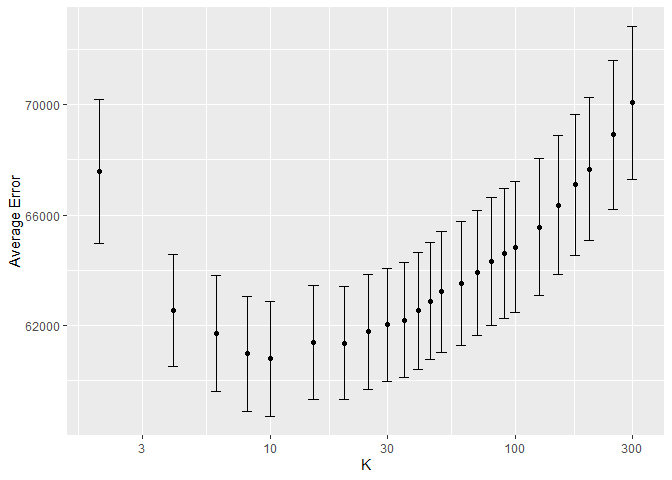
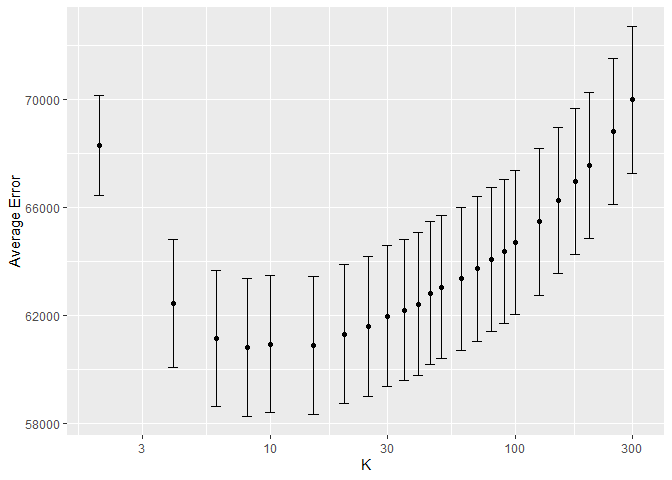
committing

diff --git a/DM_Homework_2.md b/DM_Homework_2.md
@@ -17,6 +17,8 @@ approaching soon they prefer to walk to class.
 
 ## Boardings and Temperature
 
+![](DM_Homework_2_files/figure-markdown_strict/data_wrangling-1.png)
+
 The data seem to be clustered at the right side of the graph, which is
 because the interquartile range for `temperature` is about 60 degrees to
 80 degrees with a median of 73 degrees. Average ridership itself does
@@ -26,8 +28,6 @@ be evenly distributed across temperatures.
 # Problem 2
 
 ## Linear Model
-
-    ## [1] 9590.392
 
 My linear model regresses price on all variables excluding `pctCollege`
 `fireplaces` `waterfront` and includes interactions on `landValue` and
@@ -62,11 +62,11 @@ the approximated lowest RMSE:
     ## 
     ## No pre-processing
     ## Resampling: Cross-Validated (10 fold) 
-    ## Summary of sample sizes: 1242, 1244, 1244, 1243, 1243, 1245, ... 
+    ## Summary of sample sizes: 1245, 1244, 1245, 1244, 1243, 1244, ... 
     ## Resampling results:
     ## 
     ##   RMSE      Rsquared   MAE     
-    ##   59391.93  0.6364438  41958.62
+    ##   58717.65  0.6365483  41515.14
     ## 
     ## Tuning parameter 'intercept' was held constant at a value of TRUE
 
@@ -108,15 +108,15 @@ credit history category.
 
     ##    yhat
     ## y      0    1
-    ##   0 8172   92
-    ##   1  481  255
+    ##   0 8162   92
+    ##   1  486  260
 
     ##    yhat
     ## y      0    1
-    ##   0 8166   98
-    ##   1  484  252
+    ##   0 8165   89
+    ##   1  488  258
 
-    ## [1] 0.001
+    ## [1] -0.0001111111
 
 The out of sample accuracy is almost 94% for the linear model specified,
 which is slightly higher than the baseline 2 model, where `is_summer`
@@ -126,7 +126,7 @@ and `is_holiday` are features I generated from `arrival_date`.
 
     ## Warning: glm.fit: fitted probabilities numerically 0 or 1 occurred
 
-    ## [1] 0.928
+    ## [1] 0.939
 
     ## Setting levels: control = 0, case = 1
 
@@ -153,129 +153,129 @@ and `is_holiday` are features I generated from `arrival_date`.
 <tbody>
 <tr class="odd">
 <td style="text-align: left;">Fold01</td>
-<td style="text-align: left;">20</td>
-<td style="text-align: left;">22</td>
-<td style="text-align: left;">2</td>
-</tr>
-<tr class="even">
-<td style="text-align: left;">Fold02</td>
-<td style="text-align: left;">23</td>
-<td style="text-align: left;">24</td>
-<td style="text-align: left;">1</td>
-</tr>
-<tr class="odd">
-<td style="text-align: left;">Fold03</td>
-<td style="text-align: left;">17</td>
-<td style="text-align: left;">22</td>
-<td style="text-align: left;">5</td>
-</tr>
-<tr class="even">
-<td style="text-align: left;">Fold04</td>
-<td style="text-align: left;">17</td>
-<td style="text-align: left;">21</td>
-<td style="text-align: left;">4</td>
-</tr>
-<tr class="odd">
-<td style="text-align: left;">Fold05</td>
 <td style="text-align: left;">23</td>
 <td style="text-align: left;">23</td>
 <td style="text-align: left;">0</td>
 </tr>
 <tr class="even">
-<td style="text-align: left;">Fold06</td>
-<td style="text-align: left;">24</td>
+<td style="text-align: left;">Fold02</td>
+<td style="text-align: left;">25</td>
+<td style="text-align: left;">26</td>
+<td style="text-align: left;">1</td>
+</tr>
+<tr class="odd">
+<td style="text-align: left;">Fold03</td>
+<td style="text-align: left;">18</td>
 <td style="text-align: left;">22</td>
-<td style="text-align: left;">-2</td>
+<td style="text-align: left;">4</td>
+</tr>
+<tr class="even">
+<td style="text-align: left;">Fold04</td>
+<td style="text-align: left;">26</td>
+<td style="text-align: left;">25</td>
+<td style="text-align: left;">-1</td>
+</tr>
+<tr class="odd">
+<td style="text-align: left;">Fold05</td>
+<td style="text-align: left;">19</td>
+<td style="text-align: left;">18</td>
+<td style="text-align: left;">-1</td>
+</tr>
+<tr class="even">
+<td style="text-align: left;">Fold06</td>
+<td style="text-align: left;">19</td>
+<td style="text-align: left;">24</td>
+<td style="text-align: left;">5</td>
 </tr>
 <tr class="odd">
 <td style="text-align: left;">Fold07</td>
-<td style="text-align: left;">22</td>
-<td style="text-align: left;">19</td>
-<td style="text-align: left;">-3</td>
+<td style="text-align: left;">25</td>
+<td style="text-align: left;">25</td>
+<td style="text-align: left;">0</td>
 </tr>
 <tr class="even">
 <td style="text-align: left;">Fold08</td>
+<td style="text-align: left;">15</td>
+<td style="text-align: left;">17</td>
+<td style="text-align: left;">2</td>
+</tr>
+<tr class="odd">
+<td style="text-align: left;">Fold09</td>
+<td style="text-align: left;">19</td>
+<td style="text-align: left;">16</td>
+<td style="text-align: left;">-3</td>
+</tr>
+<tr class="even">
+<td style="text-align: left;">Fold10</td>
+<td style="text-align: left;">16</td>
+<td style="text-align: left;">15</td>
+<td style="text-align: left;">-1</td>
+</tr>
+<tr class="odd">
+<td style="text-align: left;">Fold11</td>
+<td style="text-align: left;">19</td>
+<td style="text-align: left;">27</td>
+<td style="text-align: left;">8</td>
+</tr>
+<tr class="even">
+<td style="text-align: left;">Fold12</td>
+<td style="text-align: left;">23</td>
+<td style="text-align: left;">15</td>
+<td style="text-align: left;">-8</td>
+</tr>
+<tr class="odd">
+<td style="text-align: left;">Fold13</td>
+<td style="text-align: left;">18</td>
+<td style="text-align: left;">24</td>
+<td style="text-align: left;">6</td>
+</tr>
+<tr class="even">
+<td style="text-align: left;">Fold14</td>
+<td style="text-align: left;">15</td>
+<td style="text-align: left;">15</td>
+<td style="text-align: left;">0</td>
+</tr>
+<tr class="odd">
+<td style="text-align: left;">Fold15</td>
+<td style="text-align: left;">20</td>
+<td style="text-align: left;">17</td>
+<td style="text-align: left;">-3</td>
+</tr>
+<tr class="even">
+<td style="text-align: left;">Fold16</td>
 <td style="text-align: left;">21</td>
 <td style="text-align: left;">24</td>
 <td style="text-align: left;">3</td>
 </tr>
 <tr class="odd">
-<td style="text-align: left;">Fold09</td>
-<td style="text-align: left;">23</td>
-<td style="text-align: left;">18</td>
-<td style="text-align: left;">-5</td>
-</tr>
-<tr class="even">
-<td style="text-align: left;">Fold10</td>
-<td style="text-align: left;">18</td>
-<td style="text-align: left;">15</td>
-<td style="text-align: left;">-3</td>
-</tr>
-<tr class="odd">
-<td style="text-align: left;">Fold11</td>
-<td style="text-align: left;">15</td>
-<td style="text-align: left;">19</td>
-<td style="text-align: left;">4</td>
-</tr>
-<tr class="even">
-<td style="text-align: left;">Fold12</td>
-<td style="text-align: left;">17</td>
-<td style="text-align: left;">15</td>
-<td style="text-align: left;">-2</td>
-</tr>
-<tr class="odd">
-<td style="text-align: left;">Fold13</td>
-<td style="text-align: left;">20</td>
-<td style="text-align: left;">24</td>
-<td style="text-align: left;">4</td>
-</tr>
-<tr class="even">
-<td style="text-align: left;">Fold14</td>
-<td style="text-align: left;">22</td>
-<td style="text-align: left;">23</td>
-<td style="text-align: left;">1</td>
-</tr>
-<tr class="odd">
-<td style="text-align: left;">Fold15</td>
-<td style="text-align: left;">20</td>
-<td style="text-align: left;">19</td>
-<td style="text-align: left;">-1</td>
-</tr>
-<tr class="even">
-<td style="text-align: left;">Fold16</td>
-<td style="text-align: left;">17</td>
-<td style="text-align: left;">18</td>
-<td style="text-align: left;">1</td>
-</tr>
-<tr class="odd">
 <td style="text-align: left;">Fold17</td>
+<td style="text-align: left;">16</td>
 <td style="text-align: left;">20</td>
-<td style="text-align: left;">20</td>
-<td style="text-align: left;">0</td>
+<td style="text-align: left;">4</td>
 </tr>
 <tr class="even">
 <td style="text-align: left;">Fold18</td>
-<td style="text-align: left;">20</td>
-<td style="text-align: left;">24</td>
-<td style="text-align: left;">4</td>
+<td style="text-align: left;">23</td>
+<td style="text-align: left;">25</td>
+<td style="text-align: left;">2</td>
 </tr>
 <tr class="odd">
 <td style="text-align: left;">Fold19</td>
-<td style="text-align: left;">19</td>
-<td style="text-align: left;">15</td>
-<td style="text-align: left;">-4</td>
+<td style="text-align: left;">16</td>
+<td style="text-align: left;">13</td>
+<td style="text-align: left;">-3</td>
 </tr>
 <tr class="even">
 <td style="text-align: left;">Fold20</td>
-<td style="text-align: left;">17</td>
-<td style="text-align: left;">15</td>
-<td style="text-align: left;">-2</td>
+<td style="text-align: left;">16</td>
+<td style="text-align: left;">11</td>
+<td style="text-align: left;">-5</td>
 </tr>
 <tr class="odd">
 <td style="text-align: left;">Total</td>
-<td style="text-align: left;">395</td>
+<td style="text-align: left;">392</td>
 <td style="text-align: left;">402</td>
-<td style="text-align: left;">-7</td>
+<td style="text-align: left;">-10</td>
 </tr>
 </tbody>
 </table>
@@ -283,6 +283,6 @@ and `is_holiday` are features I generated from `arrival_date`.
 Tabulated Performance of Best Model
 
 According to the table, over 20 folds of the `hotels_val` set there is
-only a difference of 15 between expected and actual number of bookings
-with children. With about 5,000 bookings in the 20 folds combined, this
-number is pretty low.
+only a difference of `hotels_final[21,3]` between expected and actual
+number of bookings with children. With about 5,000 bookings in the 20
+folds combined, this number is pretty low.
